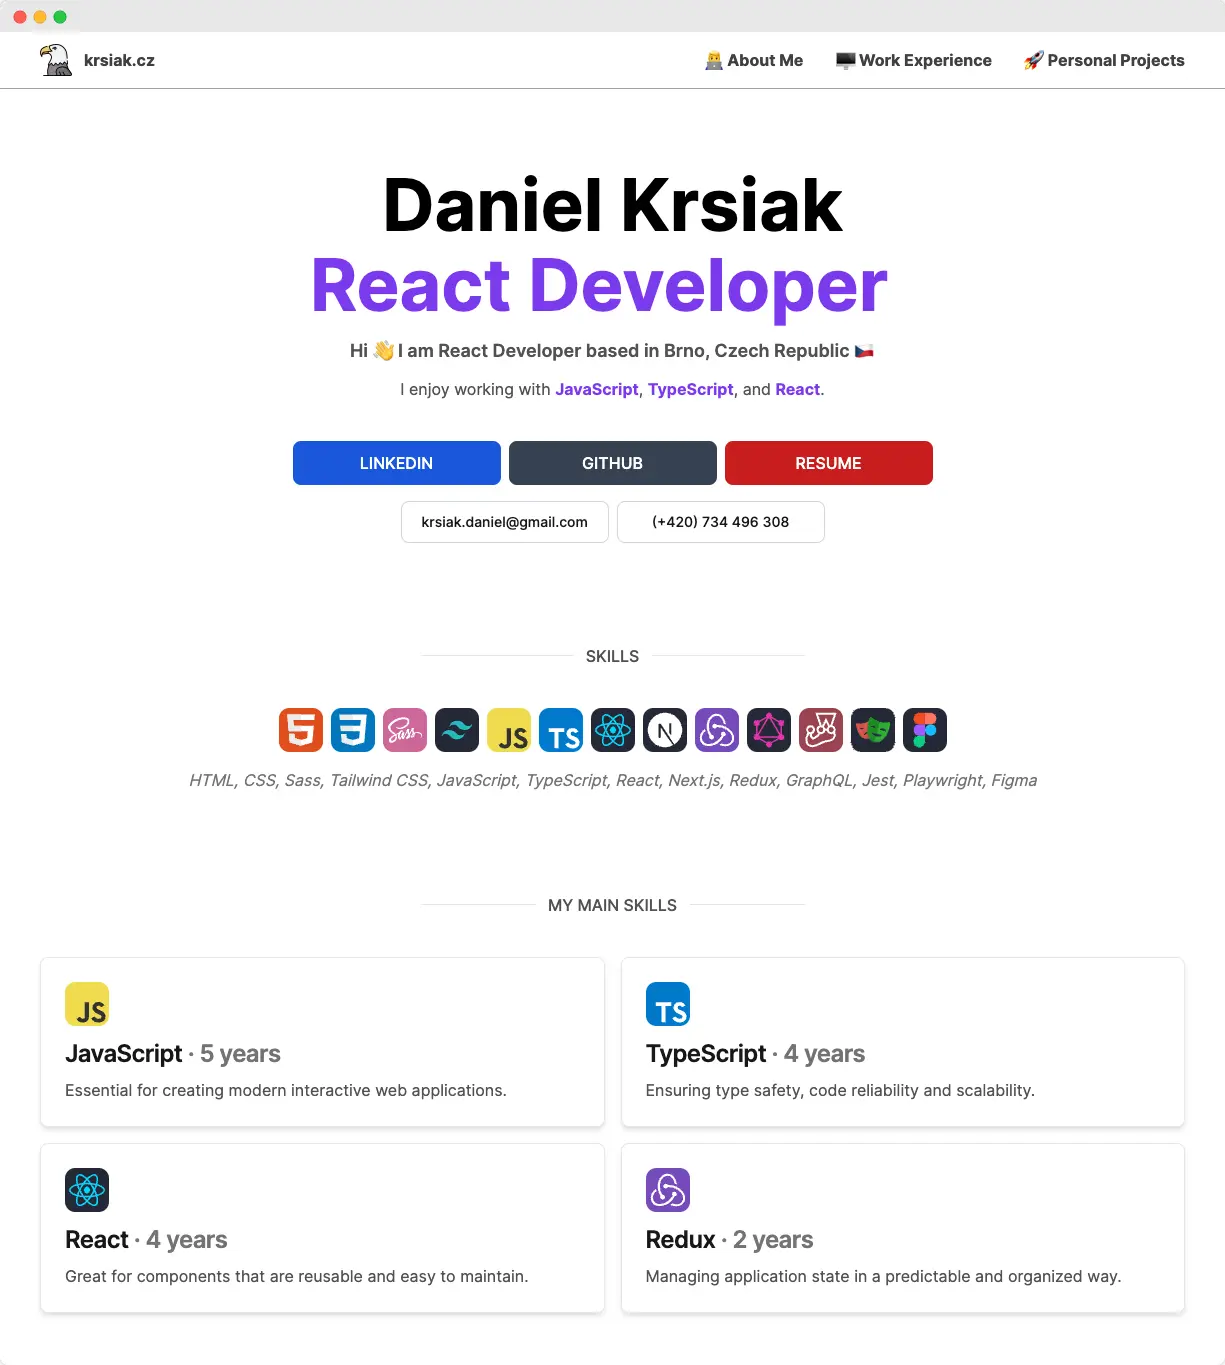
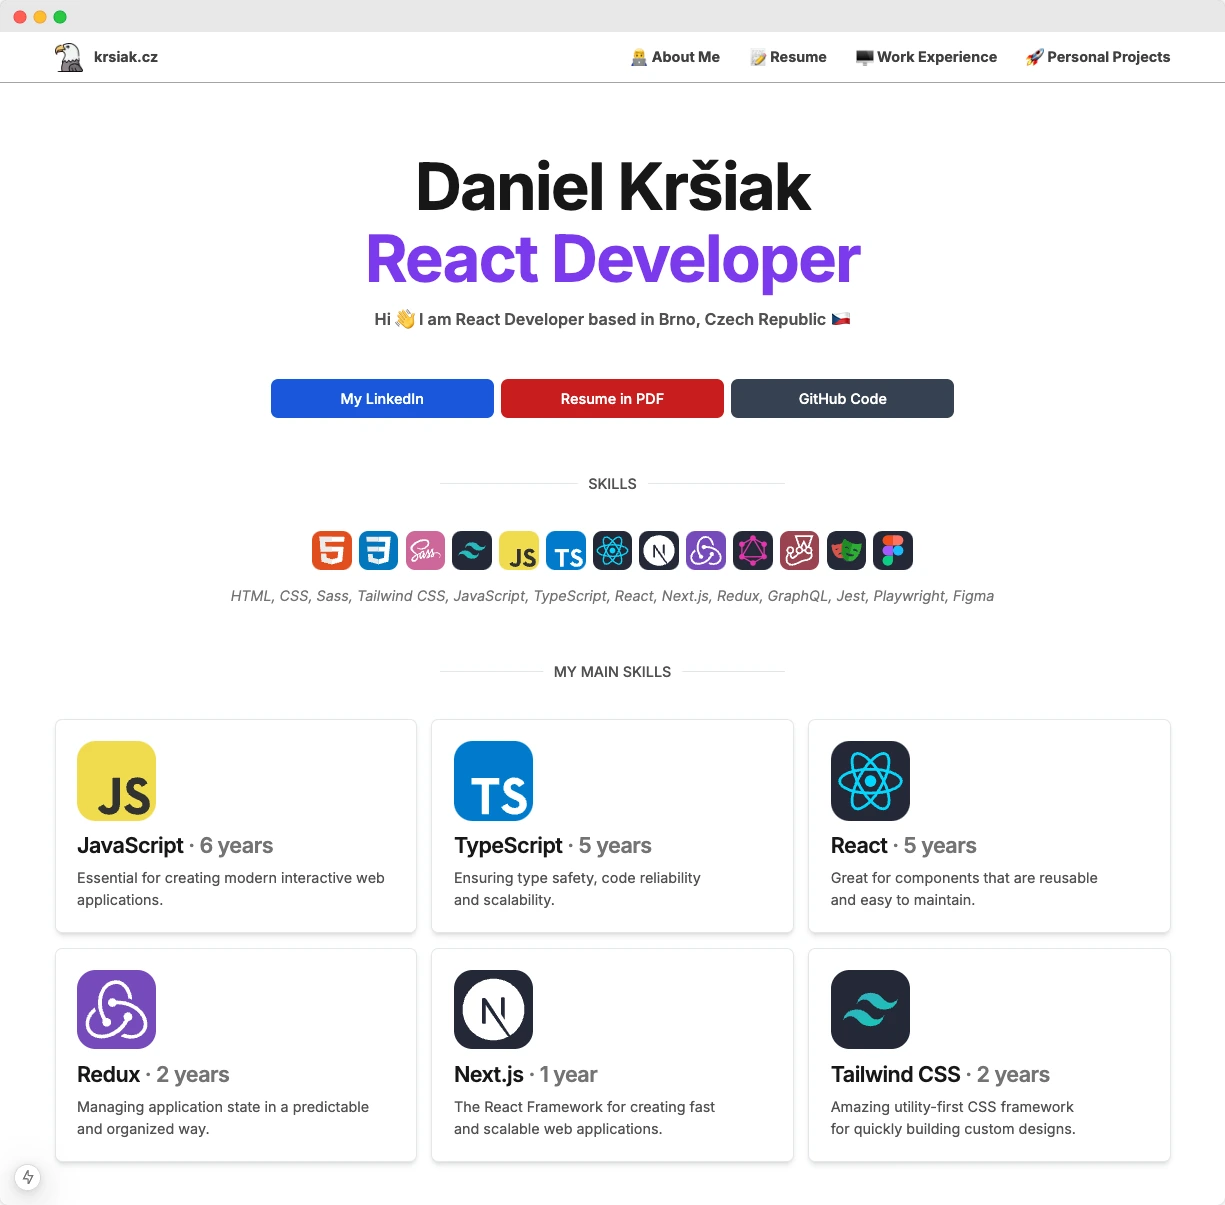
refactor(screenshots): 👷 updated versions

diff --git a/lib/data/projects/personal/projects-overview/personalNext.ts b/lib/data/projects/personal/projects-overview/personalNext.ts
@@ -9,8 +9,6 @@ import { Project } from '@/lib/utils/interfaces/interfaces'
 import krsiak1 from '@/public/images/webp/projects/personal/krsiak/krsiak-1-light.webp'
 import krsiak2 from '@/public/images/webp/projects/personal/krsiak/krsiak-2-light.webp'
 import krsiak3 from '@/public/images/webp/projects/personal/krsiak/krsiak-3-light.webp'
-import krsiak4 from '@/public/images/webp/projects/personal/krsiak/krsiak-4-light.webp'
-import krsiak5 from '@/public/images/webp/projects/personal/krsiak/krsiak-5-light.webp'
 import krsiakThumb from '@/public/images/webp/projects/personal/krsiak/krsiak-thumb-light-600.webp'
 
 export const projectsPersonalNext: Project[] = [
@@ -22,8 +20,6 @@ export const projectsPersonalNext: Project[] = [
       { id: 0, src: krsiak1.src },
       { id: 1, src: krsiak2.src },
       { id: 2, src: krsiak3.src },
-      { id: 3, src: krsiak4.src },
-      { id: 4, src: krsiak5.src },
     ],
     title: '👨💻 Portfolio Website',
     company: 'Personal project',

diff --git a/README.md b/README.md
@@ -11,6 +11,7 @@ React Developer portfolio website ⚛ 👨💻
   - [📈 Project Board and Issues](#-project-board-and-issues)
   - [🔄 Pull Requests](#-pull-requests)
   - [📊 Insights and Analytics](#-insights-and-analytics)
+  - [🐛 Handling Unexpected Bugs](#-handling-unexpected-bugs)
   - [🚦 Project Status](#-project-status)
   - [🛠 Tech Stack](#-tech-stack)
   - [📝 Features](#-features)
@@ -61,7 +62,7 @@ To provide a clear overview of the project's progress I use charts.
 - [Priorities](https://github.com/users/krsiakdaniel/projects/6/insights/2)
 - [Trend of Tasks](https://github.com/users/krsiakdaniel/projects/6/insights/1)
 
-## 🐛 Handling Unexpected Bugs: Debugging and Fixing Workflow
+## 🐛 Handling Unexpected Bugs
 
 I follow a structured approach to identify and resolve unexpected issues.
 
@@ -71,7 +72,9 @@ I follow a structured approach to identify and resolve unexpected issues.
 4. **Testing the Fix**
 5. **Documenting the Process**
 
-Explore the linked issue to see how I apply this in practice: [Fix(Heading1)!: 🐛 Incorrect Text Size on Production Compared to Localhost](https://github.com/users/krsiakdaniel/projects/6/views/1?pane=issue&itemId=90896673&issue=krsiakdaniel%7Cportfolio-website-krsiak-cz%7C163)
+Explore link below to see how I apply this in practice:
+
+- Board issue: [Fix(Heading1)!: 🐛 Incorrect Text Size on Production Compared to Localhost](https://github.com/users/krsiakdaniel/projects/6/views/1?pane=issue&itemId=90896673&issue=krsiakdaniel%7Cportfolio-website-krsiak-cz%7C163)
 
 ## 🚦 Project Status
 
@@ -83,11 +86,10 @@ The current status of the project is continuously monitored.
 
 Using these following technologies and tools.
 
-![Tech Stack](/readme-images/technologies.png)
+![Tech Stack](/readme-images/technologies-and-tools.png)
 
 **Languages:**
 
-- [JavaScript](https://developer.mozilla.org/en-US/docs/Web/javascript)
 - [TypeScript](https://www.typescriptlang.org/)
 
 **Libraries/Frameworks:**
@@ -150,8 +152,8 @@ The website contains these following sections and pages.
 
 Project screenshots.
 
-![krsiak-daniel](/readme-images/screenshot-1.png)
+![krsiak.cz | Krsiak Daniel](/readme-images/krsiak-website-screenshot-1.png)
 
-![about-me](/readme-images/screenshot-2.png)
+![krsiak.cz | About Me](/readme-images/krsiak-website-screenshot-2.png)
 
-![work-experience](/readme-images/screenshot-3.png)
+![krsiak.cz | Work Experience](/readme-images/krsiak-website-screenshot-3.png)
